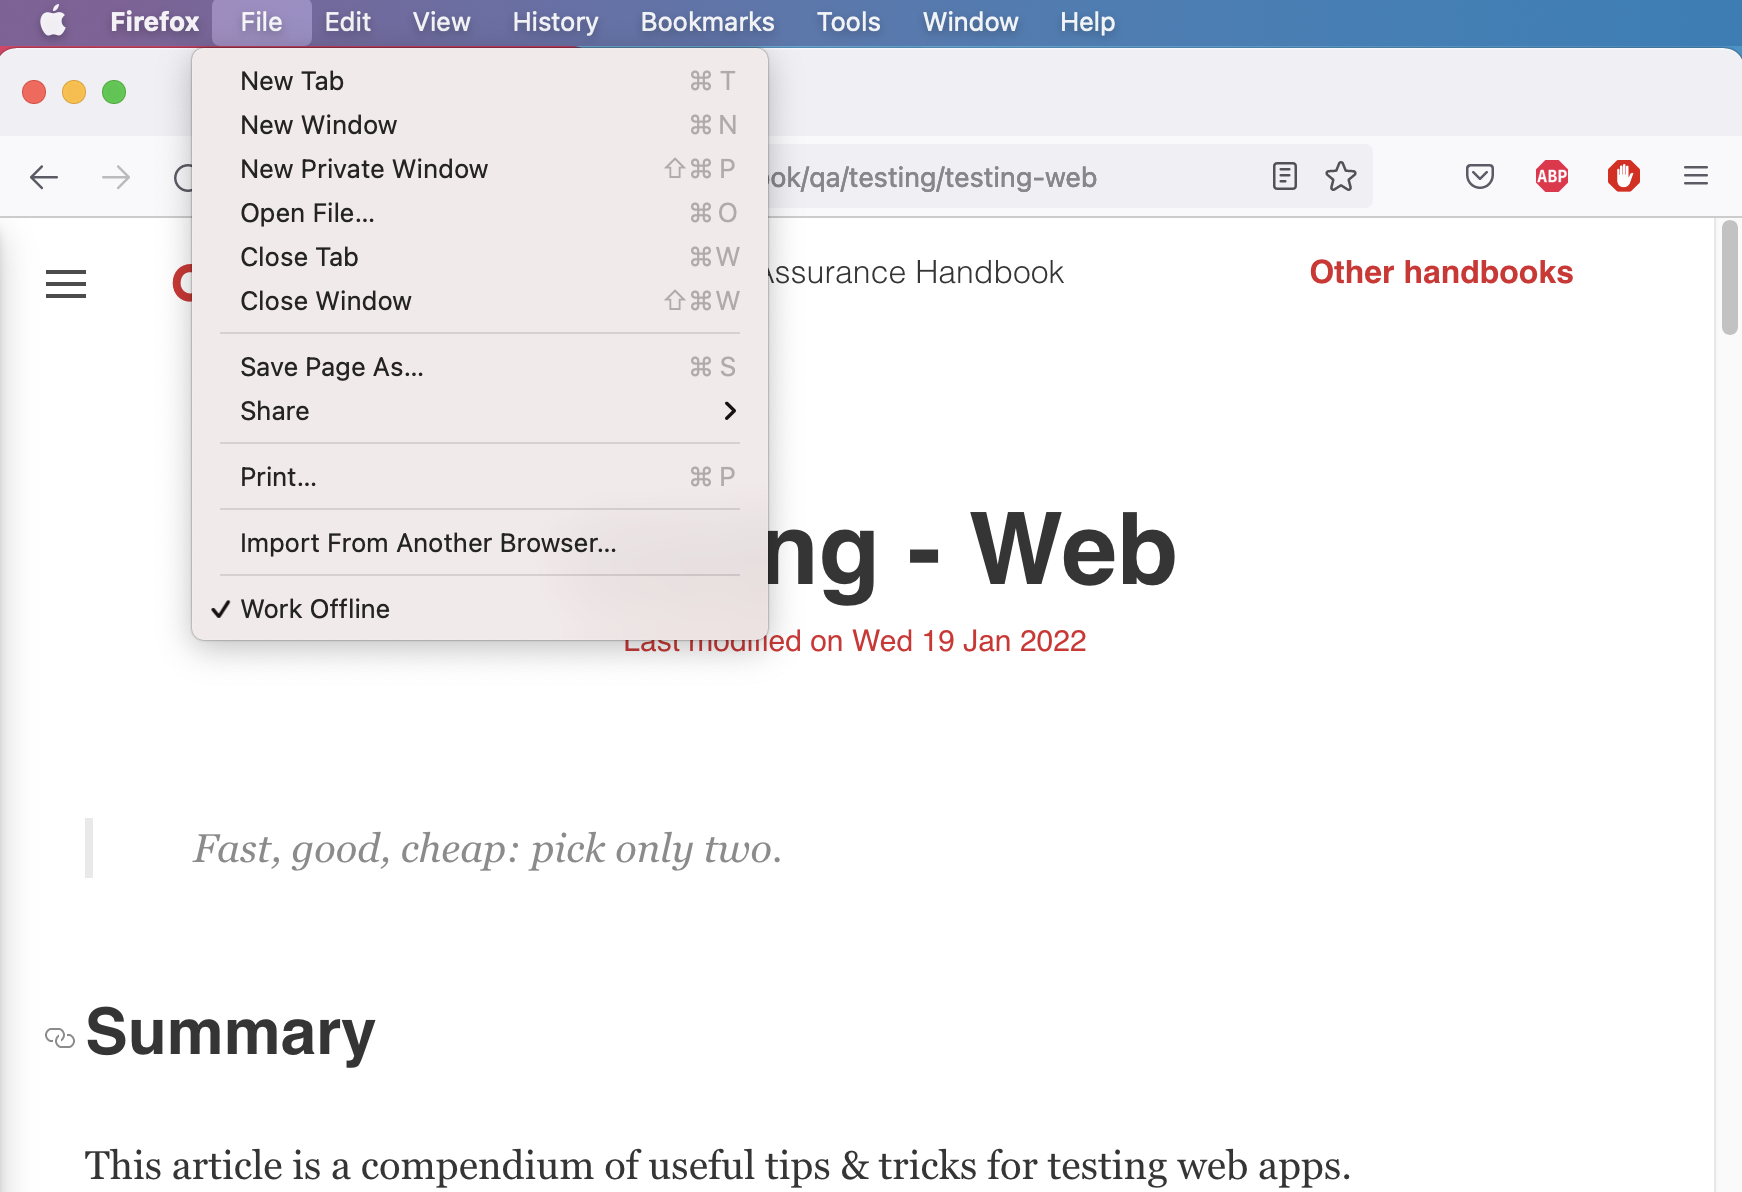
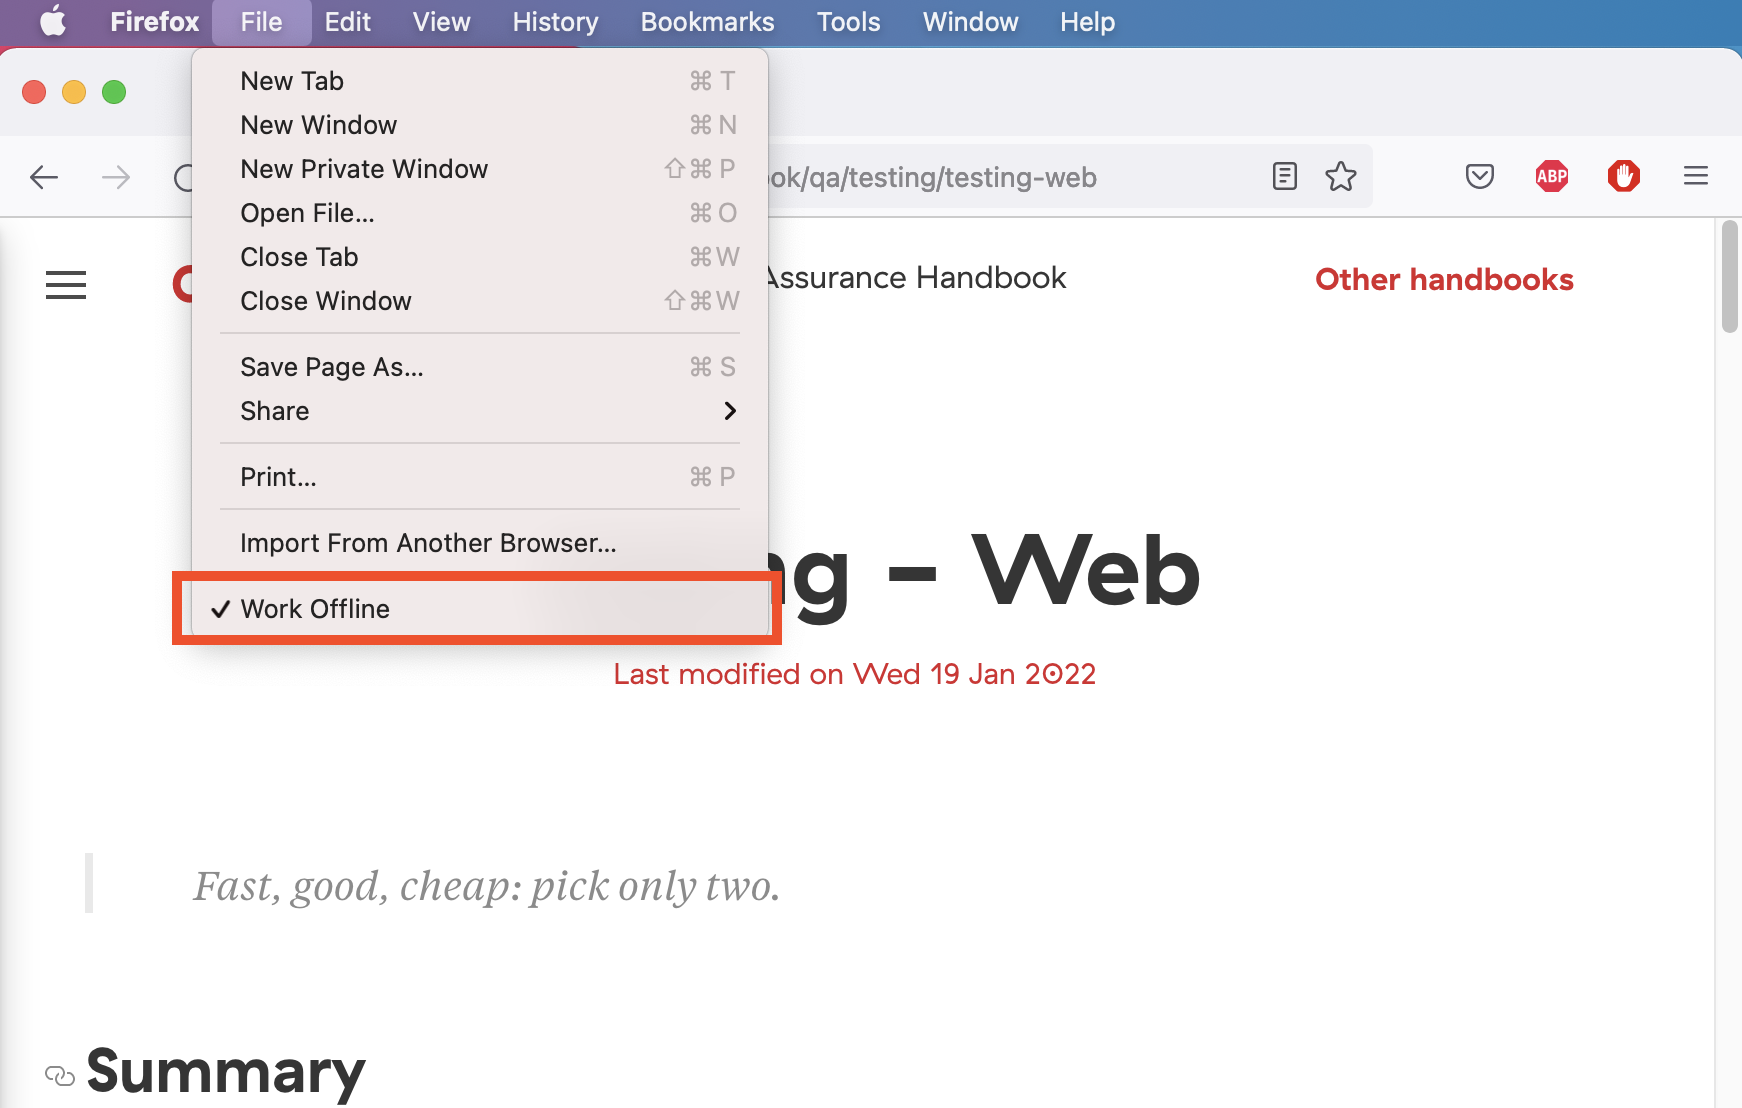
Update images in Testing-Web

diff --git a/Testing/Testing - Web.md b/Testing/Testing - Web.md
@@ -49,13 +49,13 @@ First thing you have to is open the developer console window. On Windows you can
 
 Next, click on **Application** --> **Service Workers** --> select **Offline**
 
-![](/img/Offline_mode.png)
+<span style="border: 1px solid #e0e0e0">![](/img/Offline_mode.png)</span>
 
 **Mozilla Firefox**
 
 Go to Firefox **File** --> **Work Offline** 
 
-![](/img/firefox_offline.png)
+<span style="border: 1px solid #e0e0e0">![](/img/firefox_offline.png)</span>
 
 Now, why would you want to simulate offline state in Chrome or any other browser? 
 
